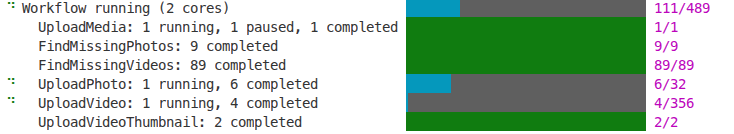
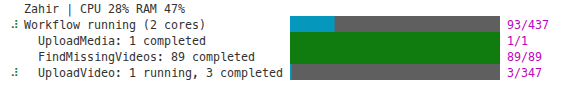
Add impossible jobs count tracking and update workflow description accordingly

diff --git a/zahir/worker/progress.py b/zahir/worker/progress.py
@@ -168,6 +168,7 @@ class ZahirProgressMonitor:
         self.job_id_to_active_state: dict[str, str] = {}
         self.workflow_task_id: TaskID | None = None
         self.system_stats_task_id: TaskID | None = None
+        self.impossible_jobs_count: int = 0
         # Track (timestamp, pid) tuples for active processes in a 3s window
         self.pid_events: deque[tuple[float, int]] = deque()
         # Track (timestamp, cpu_percent, ram_percent) tuples for 5-second window
@@ -182,9 +183,6 @@ class ZahirProgressMonitor:
 
     def handle_event(self, event: ZahirEvent) -> None:
         """Handle workflow events and update progress bars."""
-        # Update system stats on every event
-        self._update_system_stats()
-
         # Track PID from event if available
         if hasattr(event, "pid"):
             current_time = time.time()
@@ -192,11 +190,14 @@ class ZahirProgressMonitor:
             self._cleanup_old_pids(current_time)
             self._update_workflow_description()
 
+        # Update system stats on every event (after PID tracking for accurate core count)
+        self._update_system_stats()
+
         match event:
             case WorkflowStartedEvent():
                 # Add system stats task at the top
                 self.system_stats_task_id = self.progress.add_task(
-                    "Zahir |  | CPU 0.0% RAM 0.0%",
+                    "Zahir | 0 cores | CPU 0% RAM 0%",
                     total=1,
                     completed=0,
                     status="running",
@@ -302,11 +303,15 @@ class ZahirProgressMonitor:
                     stats.failed += 1
                     self._update_job_type_progress(job_type)
 
+            case JobImpossibleEvent():
+                self.impossible_jobs_count += 1
+                self._update_workflow_description()
+
             case WorkflowCompleteEvent():
                 self._finalize_workflow()
 
     def _update_system_stats(self) -> None:
-        """Update system stats display with 5-second averages."""
+        """Update system stats display with 5-second averages and core count."""
         if self.system_stats_task_id is None:
             return
 
@@ -330,9 +335,12 @@ class ZahirProgressMonitor:
             avg_cpu = cpu_percent
             avg_ram = ram_percent
 
+        # Get active process count (cores)
+        active_processes = self._get_active_process_count()
+
         self.progress.update(
             self.system_stats_task_id,
-            description=f"Zahir | CPU {avg_cpu:.0f}% RAM {avg_ram:.0f}%",
+            description=f"Zahir | {active_processes} cores | CPU {avg_cpu:.0f}% RAM {avg_ram:.0f}%",
         )
 
     def _cleanup_old_pids(self, current_time: float) -> None:
@@ -346,14 +354,17 @@ class ZahirProgressMonitor:
         return len(set(pid for _, pid in self.pid_events))
 
     def _update_workflow_description(self) -> None:
-        """Update workflow task description with active process count."""
+        """Update workflow task description with impossible jobs count."""
         if self.workflow_task_id is None:
             return
 
-        active_processes = self._get_active_process_count()
+        desc_parts = ["Workflow running"]
+        if self.impossible_jobs_count > 0:
+            desc_parts.append(f"{self.impossible_jobs_count} impossible")
+        
         self.progress.update(
             self.workflow_task_id,
-            description=f"Workflow running ({active_processes} cores)",
+            description=" ".join(desc_parts),
         )
 
     def _ensure_job_type_task(self, job_type: str) -> None:
